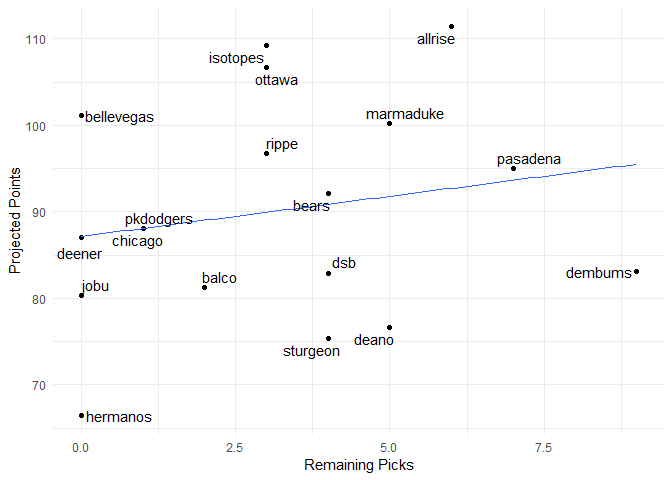
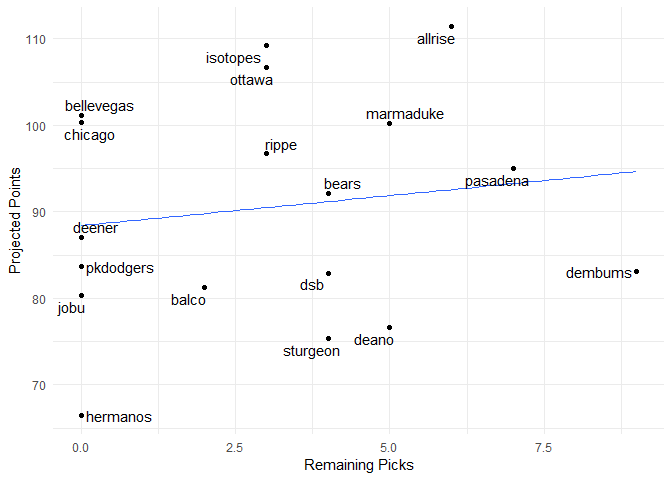
corrected some errors

diff --git a/draftguide.md b/draftguide.md
@@ -32,14 +32,14 @@ Fantasy 2019
 | 1B       |                       0|
 | 2B       |                       3|
 | 3B       |                       1|
-| CI       |                       4|
-| DH       |                       7|
+| CI       |                       3|
+| DH       |                       6|
 | MI       |                       4|
 | SS       |                       1|
 | C        |                       5|
 | OF       |                       9|
 | P        |                      23|
-| Total    |                      57|
+| Total    |                      55|
 
 #### Current Standings
 
@@ -49,13 +49,13 @@ Fantasy 2019
 | isotopes   |    252|     8|           3|         6|          109.2|        62.7|          46.5|
 | ottawa     |    253|     7|           3|         5|          106.7|        53.5|          53.2|
 | bellevegas |    260|     0|           0|         1|          101.1|        48.9|          52.2|
+| chicago    |    260|     0|           0|         1|          100.3|        59.7|          40.6|
 | marmaduke  |    253|     7|           5|         3|          100.2|        49.3|          50.9|
 | rippe      |    257|     3|           3|         1|           96.7|        35.2|          61.5|
 | pasadena   |    247|    13|           7|         7|           95.0|        59.5|          35.5|
 | bears      |    244|    16|           4|        13|           92.1|        47.5|          44.6|
-| pkdodgers  |    257|     3|           1|         3|           88.1|        35.8|          52.3|
-| chicago    |    242|    18|           1|        18|           88.1|        47.5|          40.6|
 | deener     |    260|     0|           0|         1|           87.0|        23.7|          63.3|
+| pkdodgers  |    260|     0|           0|         1|           83.7|        31.4|          52.3|
 | dembums    |    242|    18|           9|        10|           83.1|        37.1|          46.0|
 | dsb        |    249|    11|           4|         8|           82.9|        35.2|          47.7|
 | balco      |    251|     9|           2|         8|           81.3|        47.6|          33.7|
